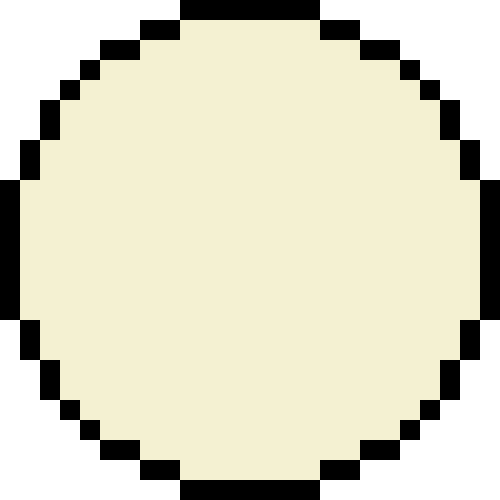
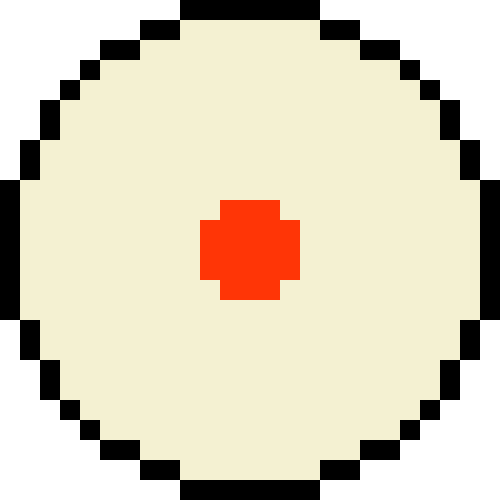
Added ball effects

Changed region(s): [[0.39, 0.39, 0.6, 0.6]]

diff --git a/src/ball.cpp b/src/ball.cpp
@@ -1,5 +1,6 @@
 #include <SDL3/SDL.h>
 #include <SDL3_image/SDL_image.h>
+#include <cmath>
 
 #include "Ball.hpp"
 #include "TextureManager.hpp"
@@ -12,39 +13,58 @@ Ball::Ball(TextureManager& p_texture_manager, float p_x, float p_y, std::string 
 {
     std::string texture_name = p_texture_name + "_" + std::to_string(rotation_state);
     texture = p_texture_manager.get(texture_name);
+    effect_state = rand() % 4;
 }
 
 void Ball::render(RenderWindow& window, TextureManager& p_texture_manager){
-    window.render(*this, p_texture_manager.get("shadow"), p_texture_manager.get("shine"));
+    SDL_Texture *shadow;
+    SDL_Texture *shine;
+
+    if (effect_state%2 == 0)
+        shadow = p_texture_manager.get("shadow");
+    else
+        shadow = p_texture_manager.get("shadow_alt");
+
+    if (std::floor(effect_state/2) == 0)
+        shine = p_texture_manager.get("shine");
+    else
+        shine = p_texture_manager.get("shine_alt");
+
+    window.render(*this, shadow, shine);
 }
 
 BallManager::BallManager(TextureManager& p_texture_manager)
     :s_texture_manager(p_texture_manager)
 {
-    /*s_texture_manager.get("shadow");
-    s_texture_manager.get("shine");
-    s_texture_manager.get("shadow_alt");
-    s_texture_manager.get("shine_alt");*/
+
 }
 
-void BallManager::addBall(float p_x, float p_y, int ball_number) 
+void BallManager::addBall(float p_x, float p_y, int p_ball_number) 
 {
-    if (ball_number > BALL_AMOUNT)
+    if (p_ball_number > BALL_AMOUNT)
         return;
 
-    std::string ball_name = "ball_" + std::to_string(ball_number);
+    std::string ball_name = "ball_" + std::to_string(p_ball_number);
 
-    if (ball_number == 0)
+    if (p_ball_number == 0)
         ball_name = "ball_cue";
 
     Ball temp_ball(s_texture_manager, p_x, p_y, ball_name);
-    balls.insert({ball_number, temp_ball});
+    balls.insert({p_ball_number, temp_ball});
 }
 
-void BallManager::render(RenderWindow& window)
+void BallManager::render(RenderWindow& p_window)
 {
     for (auto& pair : balls) {
         Ball& ball = pair.second;
-        ball.render(window, s_texture_manager);
+        ball.render(p_window, s_texture_manager);
+    }
+}
+
+void BallManager::state_change(int p_state = -1)
+{
+    for (auto& pair : balls) {
+        Ball& ball = pair.second;
+        ball.change_state(p_state);
     }
 }

diff --git a/src/main.cpp b/src/main.cpp
@@ -3,12 +3,15 @@
 #include <SDL3_image/SDL_image.h>
 #include <SDL3_mixer/SDL_mixer.h>
 #include <SDL3_ttf/SDL_ttf.h>
+#include <cmath>
 
 #include "Math.hpp"
 #include "RenderWindow.hpp"
 #include "TextureManager.hpp"
 #include "Ball.hpp"
 #include "Utils.hpp"
+
+#define EFFECT_CHANGE_RATE 1.0f
 
 int WIDTH = 1080, HEIGHT = 720;
 
@@ -70,8 +73,13 @@ bool game_running = true;
 
 int main( int argc, char *argv[] ) 
 {
-    ball_manager.addBall(300, 300, 1);
-    ball_manager.addBall(600, 600, 0);
+    srand(time(NULL));
+    for (int i = 0; i < 16; i++)
+    {
+        ball_manager.addBall(600+i%5*500, 600+floor(i/5)*500, i);
+    }
+
+    ball_manager.state_change(0);
 
     int window_refresh_rate = window.getRefreshRate();
 
@@ -79,6 +87,7 @@ int main( int argc, char *argv[] )
 
     const float delta_time = 0.01f;
     float accumulator = 0.0f;
+    float effect_accumulator = 0.0f;
     float current_time = utils::hireTimeInSeconds();
 
     while(game_running)
@@ -97,7 +106,7 @@ int main( int argc, char *argv[] )
         accumulator += frame_time;
 
         //DEBUG - Enable for frame debug
-        //std::cout << new_time << " - " << frame_time << " - " << current_time << " - " << accumulator << std::endl;
+        //std::cout << new_time << " - " << frame_time << " - " << current_time << " - " << accumulator << " - " << delta_time_test << std::endl;
 
         SDL_Event event;
 
@@ -116,12 +125,18 @@ int main( int argc, char *argv[] )
 
         update();
         graphics();
-        
+
+        //Effects
+        effect_accumulator += frame_time;
+        if (effect_accumulator >= EFFECT_CHANGE_RATE) {
+            effect_accumulator = 0.0f;
+            ball_manager.state_change(-1);
+        }
         const float alpha = accumulator / delta_time;
 
         int frame_ticks = SDL_GetTicks() - start_ticks;
 
-        if (frame_ticks < 1000 /  window.getRefreshRate()) {
+        if (frame_ticks < 1000 / window.getRefreshRate()) {
             SDL_Delay(1000 / window.getRefreshRate() - frame_ticks);
         }
 

diff --git a/src/include/Ball.hpp b/src/include/Ball.hpp
@@ -24,21 +24,38 @@ class Ball {
         {
             return velocity;
         }
-
         void render(RenderWindow& window, TextureManager& p_texture_manager);
+        void change_state(int p_state = -1)
+        {
+            //-1 state means to just go to the next state
+            if (p_state == -1)
+                p_state = (effect_state + 1) % 4;
+            
+            //Clamp the state between 0 and 4 just in case
+            p_state = std::min(p_state, 4);
+            p_state = std::max(p_state, 0);
+
+            effect_state = p_state;
+        }
 
     private:
         SDL_Texture* texture;
         Vector2f position;
         int rotation_state;
         Vector2f velocity;
+        int effect_state;
 };
 
 class BallManager {
     public:
         BallManager(TextureManager& p_texture_manager);
-        void addBall(float p_x, float p_y, int ball_number);
-        void render(RenderWindow& window);
+        void addBall(float p_x, float p_y, int p_ball_number);
+        void render(RenderWindow& p_window);
+        Ball getBall(int p_ball_number)
+        {
+            return balls.at(p_ball_number);
+        }
+        void state_change(int p_state); //Changes all balls at once to next state or a given state
 
     private:
         std::unordered_map<int, Ball> balls;

diff --git a/src/renderwindow.cpp b/src/renderwindow.cpp
@@ -66,6 +66,8 @@ void RenderWindow::render(Ball& ball, SDL_Texture* p_shadow_texture, SDL_Texture
 	dst.w = src.w;
 	dst.h = src.h;
 
+	SDL_SetRenderScale(renderer, 0.20f, 0.20f);
+
 	SDL_RenderTexture(renderer, ball.getTexture(), &src, &dst);
 	SDL_RenderTexture(renderer, p_shadow_texture, &src, &dst);
 	SDL_RenderTexture(renderer, p_shine_texture, &src, &dst);
